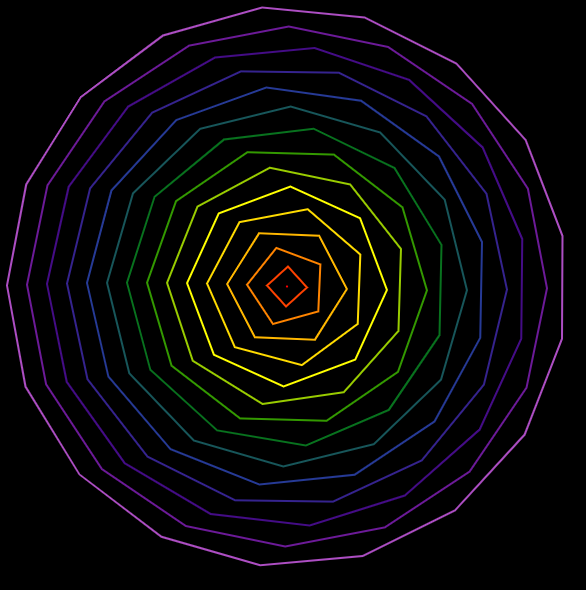
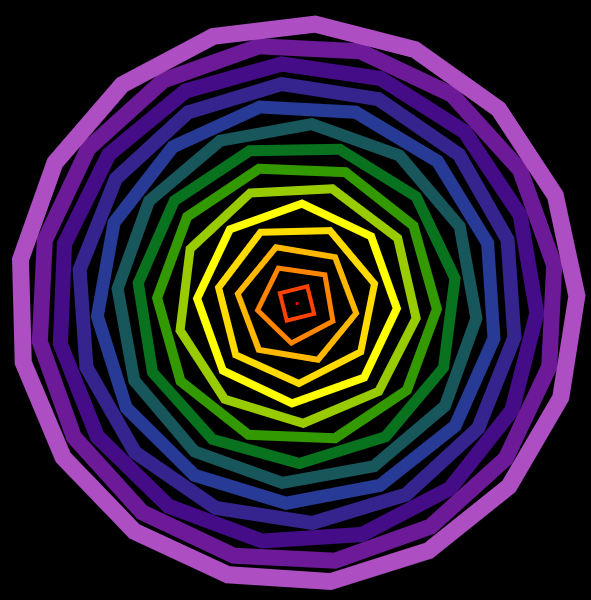
dynamic stroke weight

diff --git a/build/build.js b/build/build.js
@@ -118,7 +118,7 @@ function draw() {
     for (var i = 0; i < numberOfShapes; i++) {
         var shape = shapeCollection[i];
         shape.angle += (numberOfShapes - i) * (speed / 1000);
-        strokeWeight(3);
+        strokeWeight(3 + i);
         ShapesHelper.draw(shape);
     }
     function windowResized() {

diff --git a/sketch/sketch.ts b/sketch/sketch.ts
@@ -35,7 +35,7 @@ function draw() {
     shape.angle += (numberOfShapes - i) * (speed / 1000);
 
     // DRAW SHAPE
-    strokeWeight(3);
+    strokeWeight(3 + i);
     ShapesHelper.draw(shape);
   }
 
